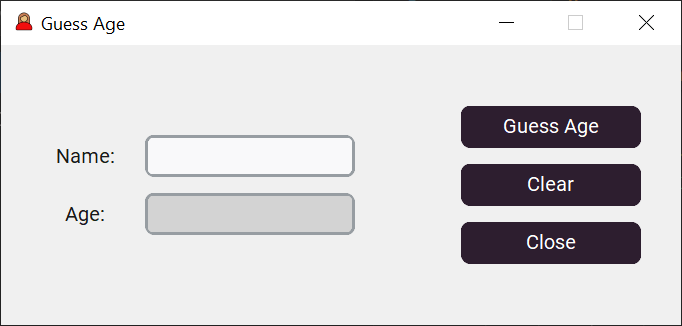
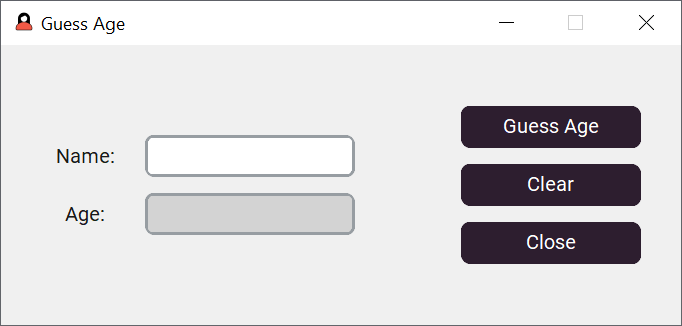
Design improvement

Changed region(s): [[0.0, 0.9816, 1.0, 1.0], [0.0, 0.0, 0.0616, 0.092], [0.9853, 0.0, 1.0, 0.0307]]

diff --git a/GuessAge.py b/GuessAge.py
@@ -3,12 +3,11 @@ windll.shcore.SetProcessDpiAwareness(1)
 
 import os
 import tkinter as tk
-from tkinter import messagebox
 import customtkinter
 from CTkMessagebox import CTkMessagebox
 import EstimateAge
-# import random
 from idlelib.tooltip import Hovertip
+from tktooltip import ToolTip
 
 
 class GuessAge(tk.Tk):
@@ -32,6 +31,7 @@ class GuessAge(tk.Tk):
         dirname = os.path.dirname(__file__)
         self.icon_path = os.path.join(dirname, 'IconUser.ico')  # Replace with your icon file path
         self.iconbitmap(self.icon_path)  # Set the window icon
+        self.warning_ico_path = os.path.join(dirname, 'warning.png') 
 
         # Create a frame for the inputs
         self.input_frame = tk.Frame(self)
@@ -45,7 +45,8 @@ class GuessAge(tk.Tk):
         Hovertip(self.name_entry, self.name_entry_tooltip)
 
         # Create the age label and entry field
-        self.age_label = customtkinter.CTkLabel(self.input_frame, text="Age:")
+        self.age_label = customtkinter.CTkLabel(self.input_frame, 
+                                                text="Age:")
         self.age_entry = customtkinter.CTkEntry(master=self.input_frame,
                                                 fg_color="lightgrey",
                                                 state="readonly")
@@ -81,11 +82,6 @@ class GuessAge(tk.Tk):
                                                     fg_color="#2D1E2F",
                                                     hover_color="#F15946")  
         
-        #def button_function():
-        #    print("button pressed")
-        
-        #self.button = customtkinter.CTkButton(master=self, text="CTkButton", command=button_function) 
-        #self.button.place(relx=0.5, rely=0.5, anchor=customtkinter.CENTER)
         
         # Tooltips
         self.guess_age_button_tooltip = "Click to guess your age based on your name."
@@ -121,10 +117,10 @@ class GuessAge(tk.Tk):
 
         # Check if the name is empty after removing spaces
         if not name.strip():  
-                self.name_entry.configure(fg_color="#FF5154")
+                self.name_entry.configure(fg_color="#F7ABA2")
                 CTkMessagebox(title="Error", 
                   message="Please enter a name!",
-                  icon="warning",
+                  icon=self.warning_ico_path,
                   height=150,
                   width=300,
                   button_text_color="white",
@@ -134,10 +130,10 @@ class GuessAge(tk.Tk):
                 return
         
         if len(name) < self.MIN_NAME_LENGTH:
-            self.name_entry.configure(fg_color="#FF5154")
+            self.name_entry.configure(fg_color="#F7ABA2")
             CTkMessagebox(title="Error", 
                   message="Name must contain at least 2 characters!",
-                  icon="warning",
+                  icon=self.warning_ico_path,
                   height=150,
                   width=300,
                   button_text_color="white",
@@ -148,10 +144,10 @@ class GuessAge(tk.Tk):
 
         # Check if all characters are valid
         if not all(char in valid_chars or char.isspace() for char in name):
-            self.name_entry.configure(fg_color="#FF5154")
+            self.name_entry.configure(fg_color="#F7ABA2")
             CTkMessagebox(title="Error", 
                   message="Name can only contains letters!",
-                  icon="warning",
+                  icon=self.warning_ico_path,
                   height=150,
                   width=300,
                   button_text_color="white",
@@ -182,6 +178,7 @@ class GuessAge(tk.Tk):
         self.name_entry.delete(0, tk.END)
         self.age_entry.delete(0, tk.END)
         self.age_entry.configure(state="readonly")
+        self.name_entry.configure(fg_color="white")
 
     # Define the close function
     def close(self):
